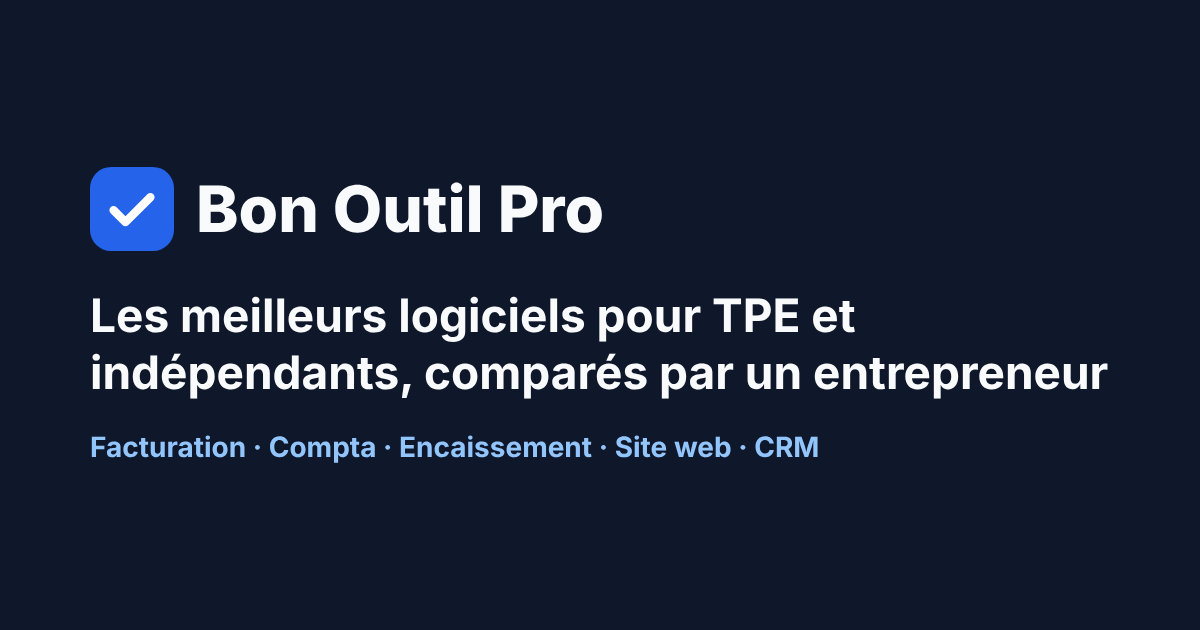
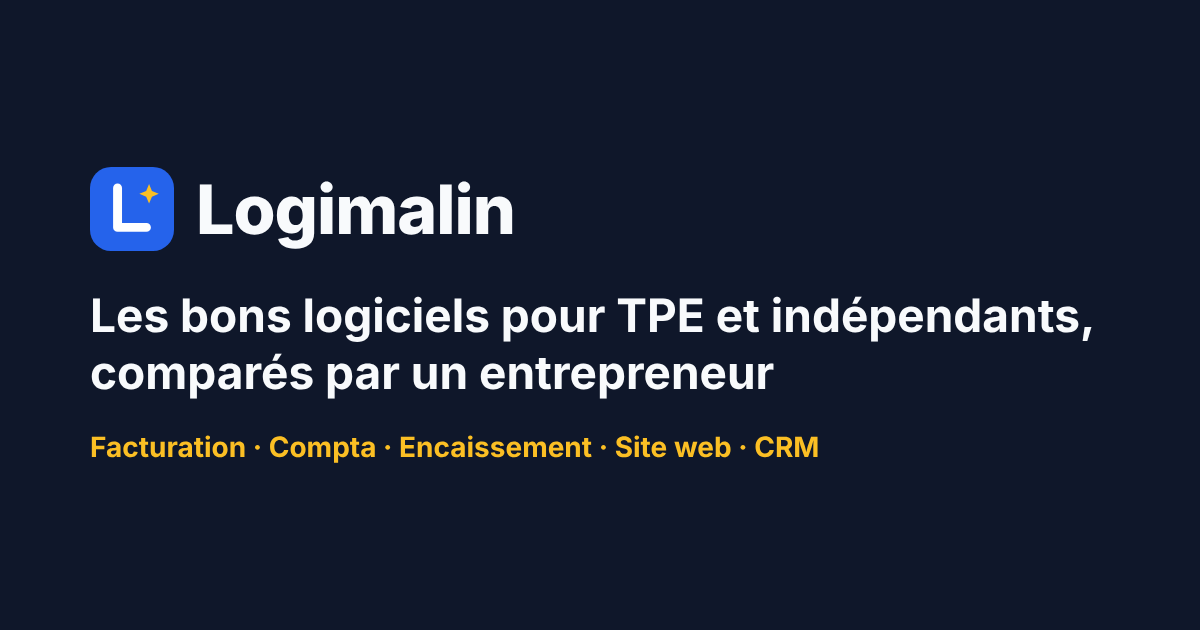
Renomme le site en Logimalin
Nom choisi avec les données OpenSEO (volume nul, page de résultats vierge,
contrairement à « Bon Outil Pro » que Google associe au bricolage).
Nouveau logo, favicon, image de partage, domaine logimalin.fr par défaut
et justification du nom dans la stratégie SEO.

Claude-Session: https://claude.ai/code/session_01M2n36AfHh3DyxxtwxTALqC

Changed region(s): [[0.0617, 0.4524, 0.925, 0.6333], [0.0925, 0.2714, 0.5242, 0.3921], [0.0617, 0.6937, 0.7092, 0.7238]]

diff --git a/src/data/site.ts b/src/data/site.ts
@@ -1,9 +1,9 @@
 // Configuration globale du site. Remplace `url` par ton vrai domaine avant la mise en ligne :
 // il sert aux URLs canoniques, au sitemap et aux données structurées.
 export const SITE = {
-  name: 'Bon Outil Pro',
-  tagline: 'Les meilleurs logiciels pour TPE et indépendants, comparés par un entrepreneur',
-  url: process.env.SITE_URL ?? 'https://www.bonoutilpro.fr',
+  name: 'Logimalin',
+  tagline: 'Les bons logiciels pour TPE et indépendants, comparés par un entrepreneur',
+  url: process.env.SITE_URL ?? 'https://www.logimalin.fr',
   locale: 'fr_FR',
   lang: 'fr',
   // Mois de la dernière vérification globale des tarifs affichés.
@@ -19,7 +19,7 @@ export const SITE = {
   publisher: {
     legalName: 'À compléter',
     address: 'À compléter',
-    email: 'contact@bonoutilpro.fr',
+    email: 'contact@logimalin.fr',
     host: 'À compléter (ex. Cloudflare, Inc.)',
   },
 } as const;

diff --git a/docs/STRATEGIE-SEO.md b/docs/STRATEGIE-SEO.md
@@ -1,10 +1,10 @@
-# Stratégie SEO : Bon Outil Pro (toutes les TPE et indépendants)
+# Stratégie SEO : Logimalin (toutes les TPE et indépendants)
 
 Document de travail : positionnement, architecture, mots-clés **avec données réelles**, plan de contenu, liens, Google Ads.
 
 > **Source des données** : OpenSEO (données DataForSEO / Google Ads), marché France, langue française, octobre 2026.
 > **Volume** = recherches mensuelles moyennes en France. **KD** = difficulté de classement (0 à 100) : sous 20, un site neuf avec un bon contenu peut viser la première page ; au-dessus de 50, il faut de l'autorité (liens).
-> Les mots-clés et le contexte sont enregistrés dans le projet OpenSEO « Bon Outil Pro (France) ».
+> Les mots-clés et le contexte sont enregistrés dans le projet OpenSEO « Logimalin (France) ».
 
 ---
 
@@ -18,7 +18,15 @@ Sur « logiciel facturation », « logiciel comptabilité TPE », « CRM TPE »,
 
 Leur faiblesse commune : **ils raisonnent par logiciel, pas par entreprise**. Personne ne répond bien à « je suis plombier, de quoi ai-je besoin et combien ça coûte au total ? ». C'est notre angle.
 
-## 2. Le positionnement
+## 2. Le nom : Logimalin
+
+Choisi à partir des données OpenSEO (octobre 2026) : environ 70 noms testés sur le volume de recherche, puis la page de résultats Google des 13 finalistes.
+
+- **Volume de recherche nul et page Google vierge** : aucune marque ni aucun autre sens à combattre, le site peut se classer premier sur son propre nom très vite.
+- **« logi » + « malin »** : le sujet (les logiciels) et la promesse (le bon choix, le bon plan), sans enfermer le site dans une seule thématique.
+- **Écartés** : Bon Outil Pro (Google l’associe au bricolage), Kit Indé et Bureau des Indés (confondus avec l’Inde), Pilote TPE (pilotes de terminaux), Logiciel Futé (Bison Futé), Logiciel Malin (Programme Malin de la CAF), Bonne Facture (marque existante), Choisir mon logiciel (concurrents mon-logiciel.net et monlogiciel.fr), Les bons logiciels (requête générique), Logipro, Gestio, Lebonlogiciel (déjà utilisés).
+
+## 2 bis. Le positionnement
 
 **« Le bon outil pour chaque TPE, choisi par un entrepreneur. »** Trois promesses visibles sur chaque page :
 
@@ -115,6 +123,7 @@ Accueil
 | Page à créer | Mot-clé | Volume | KD |
 |---|---|---|---|
 | /facturation/tva-auto-entrepreneur/ | tva auto entrepreneur | 12 100 | 17 |
+| /facturation/logiciel-auto-entrepreneur/ (ou enrichir la page facturation AE) | logiciel auto entrepreneur | 590 | 2 |
 | /facturation/facture-electronique-gratuite/ | facture électronique gratuit | 9 900 | 43 |
 | /facturation/relance-facture-impayee/ (+ modèle de lettre) | relance facture impayée | 1 000 | 0 |
 | /facturation/facture-acompte/ | facture acompte | 1 300 | 0 |
@@ -160,7 +169,7 @@ Accueil
 
 ## 7. Check-list de lancement
 
-1. [ ] Acheter le domaine et le mettre dans `src/data/site.ts` (ou `SITE_URL`). Le nom « Bon Outil Pro » est provisoire.
+1. [ ] Acheter le domaine et le mettre dans `src/data/site.ts` (ou `SITE_URL`). Vérifier d’abord la disponibilité de logimalin.fr (et .com) et l’absence de marque déposée sur data.inpi.fr.
 2. [ ] Compléter les mentions légales (`SITE.publisher`).
 3. [ ] Ajouter ta photo, ton parcours et tes profils sur `/a-propos/`.
 4. [ ] S'inscrire aux programmes d'affiliation, coller les liens dans `src/data/software.ts` (`affiliateUrl`). Priorités : Systeme.io, Hostinger, Shopify, SumUp, Axonaut, Pipedrive, HubSpot, Abby, Indy, Tolteck, Obat.

diff --git a/README.md b/README.md
@@ -1,4 +1,4 @@
-# Bon Outil Pro
+# Logimalin
 
 Site d'affiliation SEO : les logiciels pour TPE et indépendants (facturation, comptabilité, encaissement, site internet, CRM, équipe), avec des kits par métier.
 
